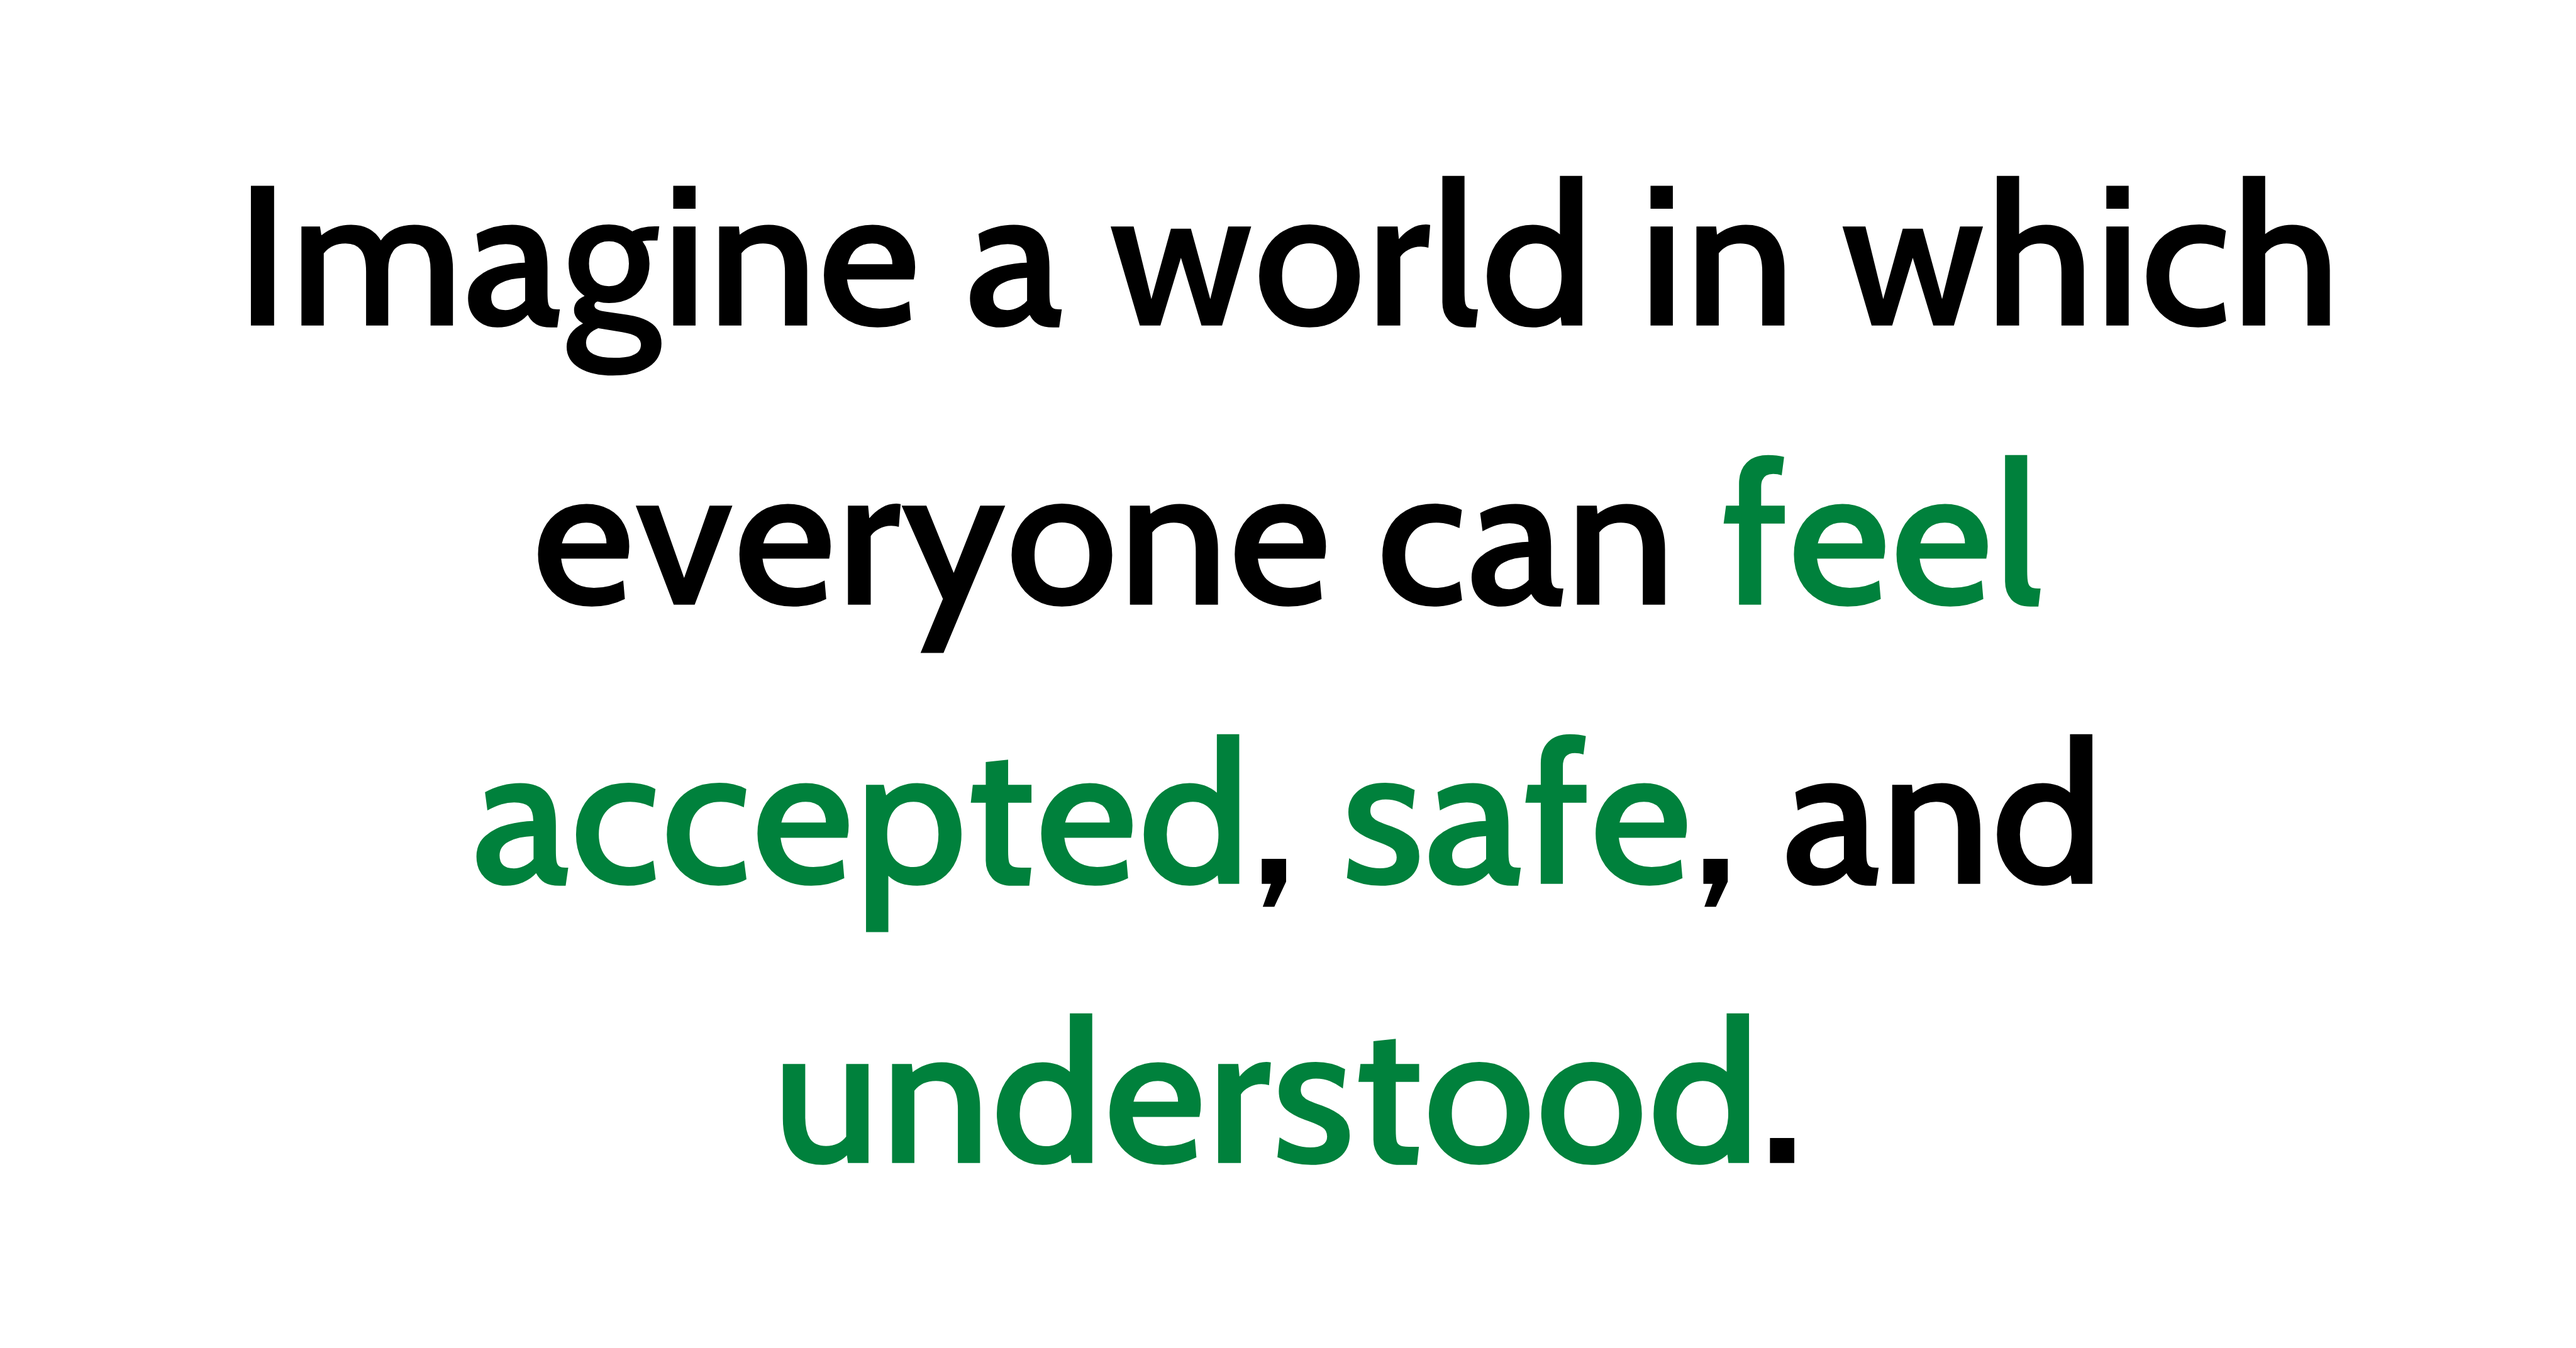
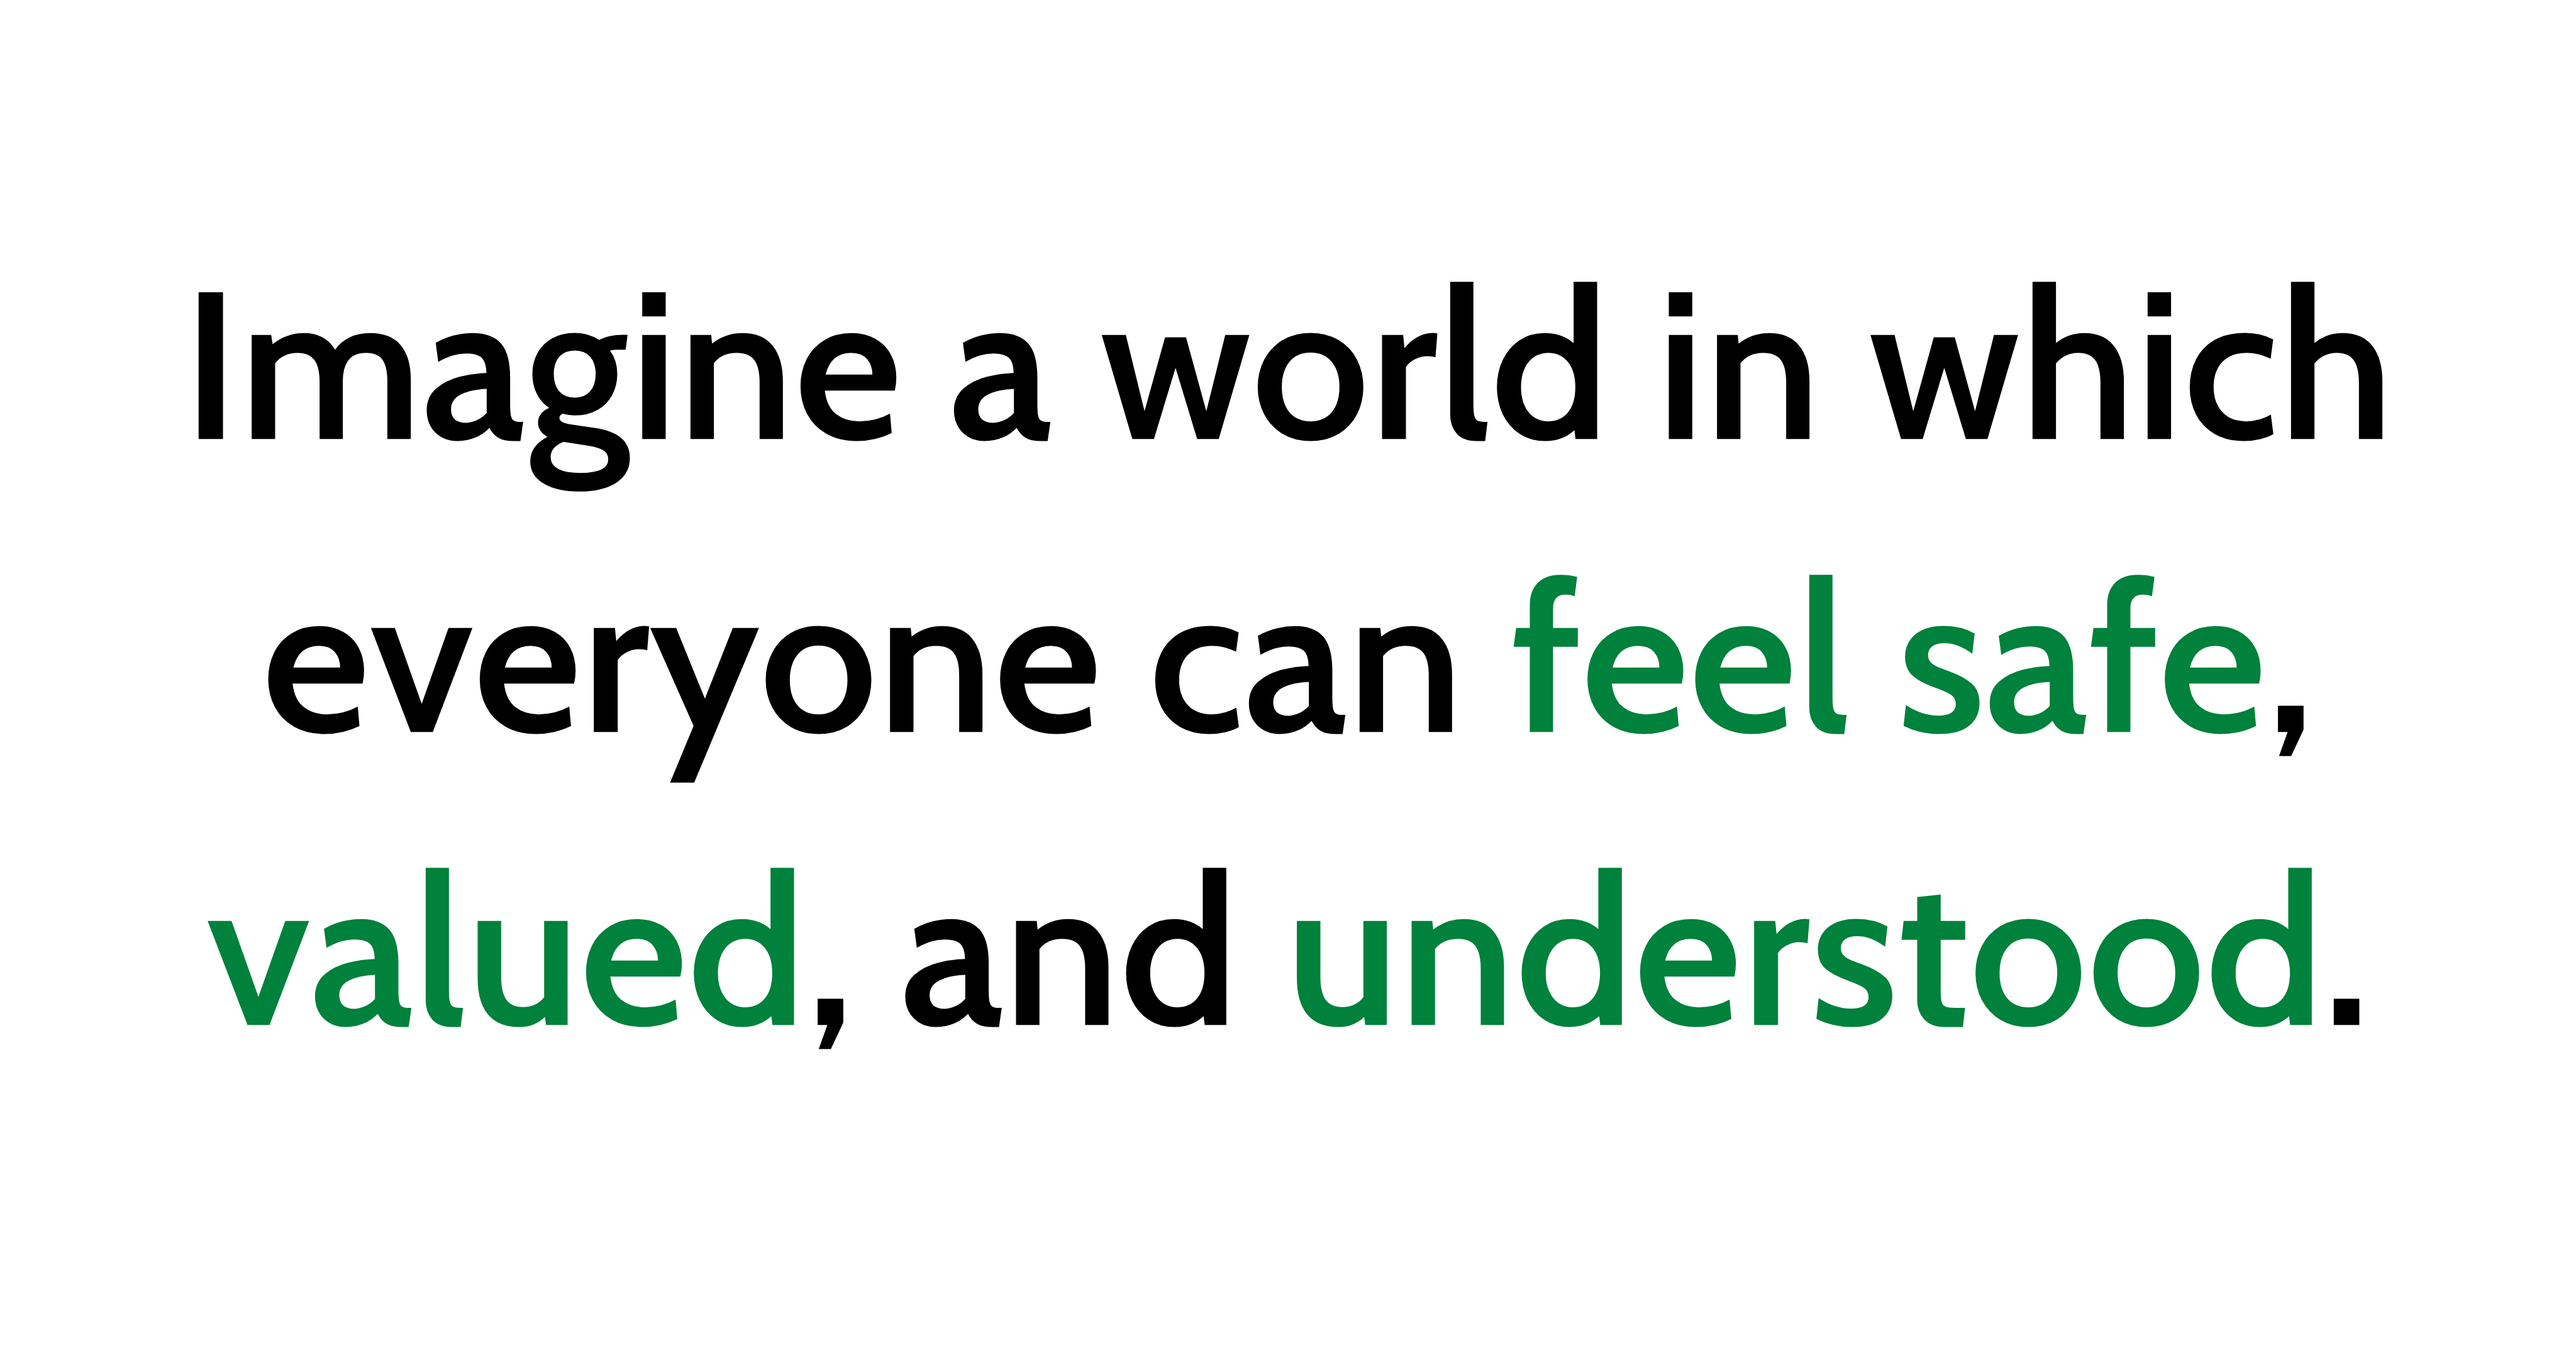
Update purpose statement (#77)

Changed region(s): [[0.0625, 0.125, 0.9375, 0.875]]

diff --git a/pages/join.vue b/pages/join.vue
@@ -2,8 +2,8 @@
   <div>
     <h1>
       Imagine a world in which everyone can
-      <span class="text-accent">feel accepted</span>,
-      <span class="text-accent">safe</span>, and
+      <span class="text-accent">feel safe</span>,
+      <span class="text-accent">valued</span>, and
       <span class="text-accent">understood</span>.
     </h1>
     <h1>
@@ -62,7 +62,7 @@ export default {
       {
         name: 'description',
         content:
-          'Our purpose is to promote mental health and build community so that everyone can feel accepted, safe, and understood.',
+          'Our purpose is to promote mental health and build community so that everyone can feel safe, valued, and understood.',
       },
       {
         name: 'twitter:card',
@@ -75,7 +75,7 @@ export default {
       {
         name: 'twitter:description',
         content:
-          'Our purpose is to promote mental health and build community so that everyone can feel accepted, safe, and understood.',
+          'Our purpose is to promote mental health and build community so that everyone can feel safe, valued, and understood.',
       },
       {
         name: 'twitter:image',

diff --git a/pages/about.vue b/pages/about.vue
@@ -4,7 +4,7 @@
     <h2>Our Purpose</h2>
     <p>
       To promote mental health and build community so that everyone can feel
-      accepted, safe, and understood.
+      safe, valued, and understood.
     </p>
     <h2>Contact Us</h2>
     <p>
@@ -33,7 +33,7 @@ export default {
       {
         name: 'description',
         content:
-          'Our purpose is to promote mental health and build community so that everyone can feel accepted, safe, and understood.',
+          'Our purpose is to promote mental health and build community so that everyone can feel safe, valued, and understood.',
       },
     ],
   },

diff --git a/pages/the5/pledge.vue b/pages/the5/pledge.vue
@@ -8,7 +8,7 @@
     </p>
     <p>
       Together, if each of us take care of our mental health, we can create a
-      future in which everyone can feel accepted, safe, and understood.
+      future in which everyone can feel safe, valued, and understood.
     </p>
     <p>Thank you for contributing to that future.</p>
     <h2>Share</h2>
